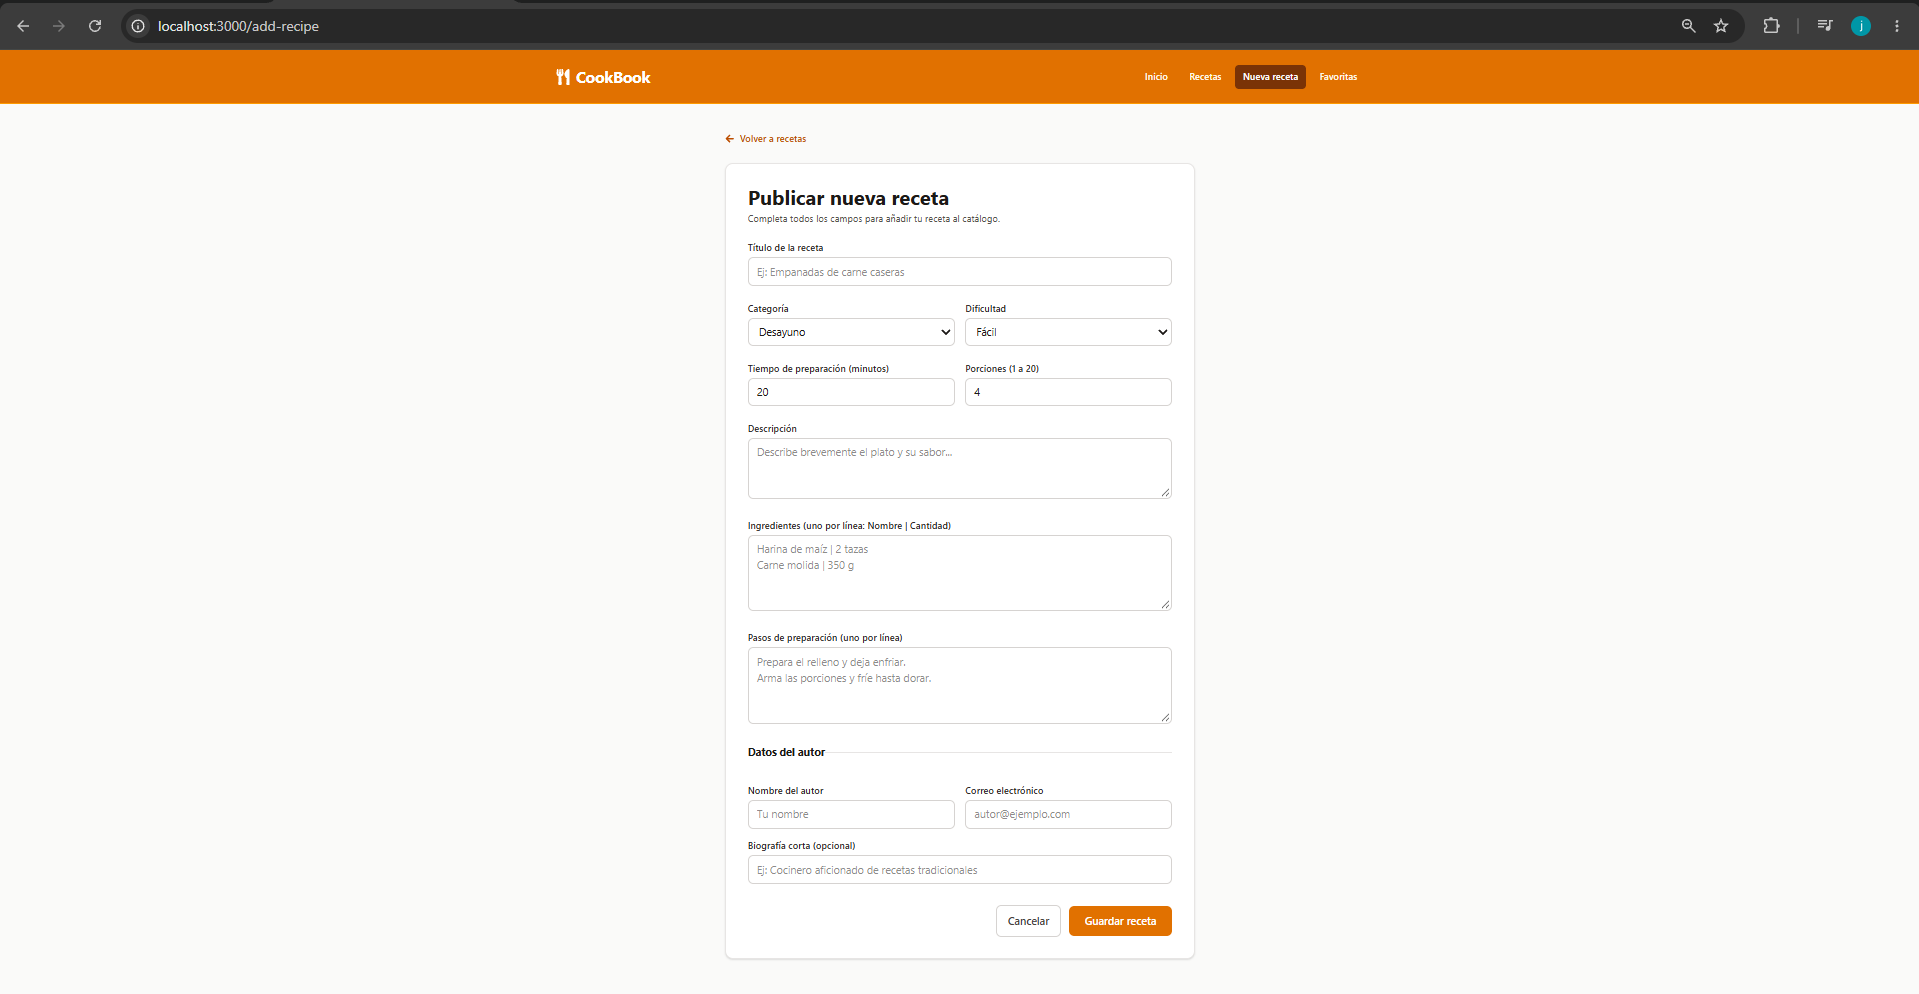
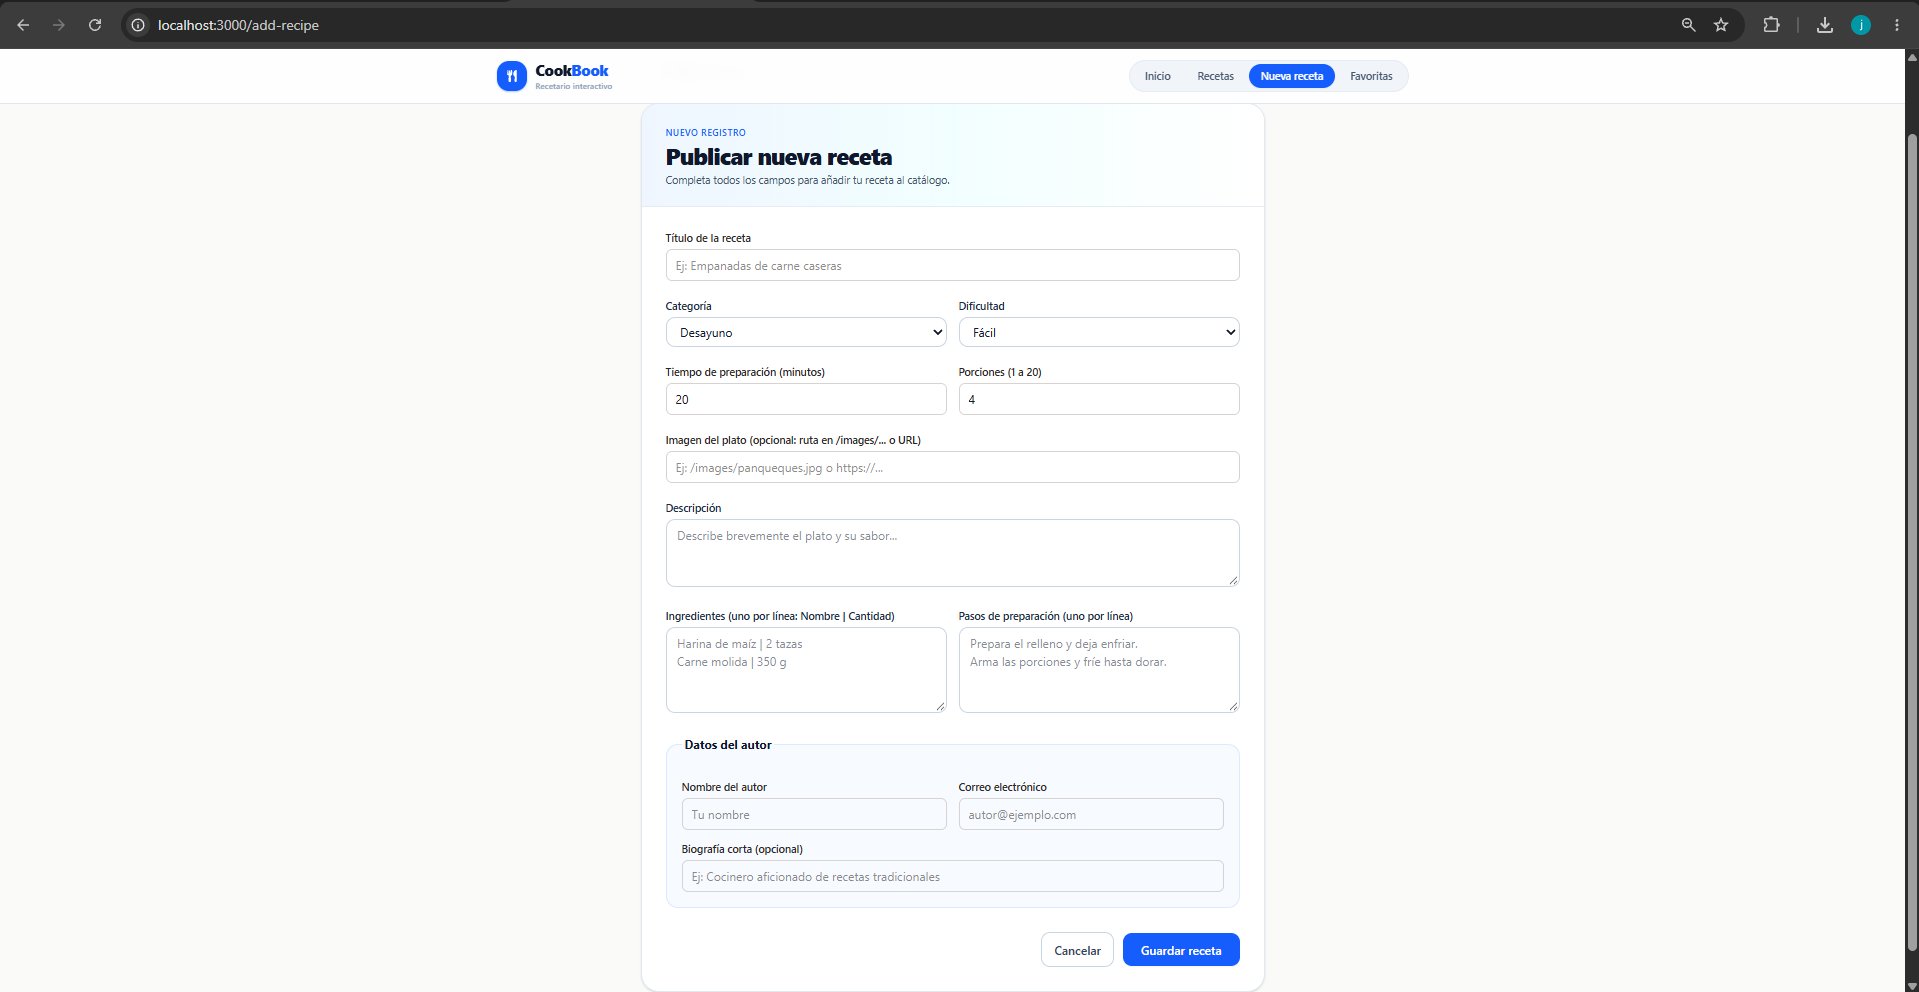
feat(cookbook): rediseño azul, 8 nuevas recetas e imágenes de platos

diff --git a/src/components/RecipeCard.jsx b/src/components/RecipeCard.jsx
@@ -1,7 +1,7 @@
 import { useState } from 'react';
 import { Link } from 'react-router';
 import { toast } from 'react-toastify';
-import { FaArrowRight, FaClock, FaHeart, FaRegHeart, FaUsers } from 'react-icons/fa';
+import { FaArrowRight, FaClock, FaHeart, FaRegHeart, FaUsers, FaUtensils } from 'react-icons/fa';
 import { toggleFavoriteRecipe } from '../services/recipesApi';
 
 const DESCRIPTION_LIMIT = 110;
@@ -9,6 +9,7 @@ const DESCRIPTION_LIMIT = 110;
 const RecipeCard = ({ recipe, onToggleFavorite }) => {
   const [expanded, setExpanded] = useState(false);
   const [togglingFav, setTogglingFav] = useState(false);
+  const [imgError, setImgError] = useState(false);
 
   const isLong = recipe.description.length > DESCRIPTION_LIMIT;
   const displayDescription =
@@ -40,12 +41,25 @@ const RecipeCard = ({ recipe, onToggleFavorite }) => {
   return (
     <article className="group bg-white rounded-2xl overflow-hidden shadow-xs hover:shadow-lg border border-slate-200 hover:border-blue-400 flex flex-col justify-between transition-all">
       <div>
-        <div className="bg-gradient-to-r from-blue-50 to-cyan-50 px-5 py-3 border-b border-slate-100 flex items-center justify-between gap-2">
-          <div className="flex flex-wrap items-center gap-1.5">
-            <span className="bg-blue-600 text-white text-[11px] font-semibold px-2.5 py-0.5 rounded-md">
+        <div className="relative h-48 w-full overflow-hidden bg-gradient-to-br from-blue-100 to-cyan-100">
+          {recipe.image && !imgError ? (
+            <img
+              src={recipe.image}
+              alt={`Plato de ${recipe.title}`}
+              onError={() => setImgError(true)}
+              className="h-full w-full object-cover group-hover:scale-105 transition-transform duration-300"
+            />
+          ) : (
+            <div className="flex h-full w-full items-center justify-center text-blue-600/40">
+              <FaUtensils className="text-4xl" aria-hidden="true" />
+            </div>
+          )}
+
+          <div className="absolute top-3 left-3 flex flex-wrap items-center gap-1.5">
+            <span className="bg-blue-600/95 backdrop-blur-xs text-white text-[11px] font-semibold px-2.5 py-1 rounded-md shadow-xs">
               {recipe.category}
             </span>
-            <span className="bg-sky-50 text-sky-700 border border-sky-200 text-[11px] font-medium px-2.5 py-0.5 rounded-md">
+            <span className="bg-white/95 backdrop-blur-xs text-slate-800 text-[11px] font-semibold px-2.5 py-1 rounded-md shadow-xs">
               {recipe.difficulty}
             </span>
           </div>
@@ -60,12 +74,12 @@ const RecipeCard = ({ recipe, onToggleFavorite }) => {
                 : `Marcar ${recipe.title} como favorita`
             }
             aria-pressed={Boolean(recipe.favorite)}
-            className="p-1.5 rounded-lg bg-white border border-slate-200 hover:border-rose-300 hover:bg-rose-50 text-rose-600 transition cursor-pointer shrink-0 disabled:opacity-50"
+            className="absolute top-3 right-3 p-2 rounded-full bg-white/95 backdrop-blur-xs shadow-xs hover:bg-rose-50 text-rose-600 transition cursor-pointer disabled:opacity-50"
           >
             {recipe.favorite ? (
               <FaHeart className="text-sm" aria-hidden="true" />
             ) : (
-              <FaRegHeart className="text-sm text-slate-400" aria-hidden="true" />
+              <FaRegHeart className="text-sm text-slate-500" aria-hidden="true" />
             )}
           </button>
         </div>

diff --git a/src/pages/EditRecipePage.jsx b/src/pages/EditRecipePage.jsx
@@ -43,6 +43,7 @@ const EditRecipePage = () => {
   const [difficulty, setDifficulty] = useState(recipe.difficulty || 'Fácil');
   const [prepTime, setPrepTime] = useState(String(recipe.prepTime ?? 20));
   const [servings, setServings] = useState(String(recipe.servings ?? 4));
+  const [image, setImage] = useState(recipe.image || '');
   const [description, setDescription] = useState(recipe.description || '');
   const [ingredientsText, setIngredientsText] = useState(
     formatIngredientsForTextarea(recipe.ingredients)
@@ -146,6 +147,7 @@ const EditRecipePage = () => {
       difficulty,
       prepTime: parsedPrepTime,
       servings: parsedServings,
+      image: image.trim(),
       description: description.trim(),
       ingredients: parsedIngredients,
       steps: parsedSteps,
@@ -326,6 +328,24 @@ const EditRecipePage = () => {
                   </p>
                 )}
               </div>
+            </div>
+
+            <div>
+              <label
+                htmlFor="edit-image"
+                className="block text-sm font-semibold text-slate-800 mb-1"
+              >
+                Imagen del plato (opcional: ruta en /images/... o URL)
+              </label>
+              <input
+                id="edit-image"
+                name="image"
+                type="text"
+                value={image}
+                onChange={(e) => setImage(e.target.value)}
+                placeholder="Ej: /images/panqueques.jpg o https://..."
+                className="w-full border border-slate-300 rounded-xl px-3.5 py-2 text-slate-900 focus:outline-none focus:border-blue-600 focus:ring-2 focus:ring-blue-600/20"
+              />
             </div>
 
             <div>

diff --git a/src/pages/AddRecipePage.jsx b/src/pages/AddRecipePage.jsx
@@ -41,6 +41,7 @@ const AddRecipePage = () => {
   const [difficulty, setDifficulty] = useState('Fácil');
   const [prepTime, setPrepTime] = useState('20');
   const [servings, setServings] = useState('4');
+  const [image, setImage] = useState('');
   const [description, setDescription] = useState('');
   const [ingredientsText, setIngredientsText] = useState('');
   const [stepsText, setStepsText] = useState('');
@@ -142,6 +143,7 @@ const AddRecipePage = () => {
       difficulty,
       prepTime: parsedPrepTime,
       servings: parsedServings,
+      image: image.trim(),
       description: description.trim(),
       ingredients: parsedIngredients,
       steps: parsedSteps,
@@ -287,6 +289,16 @@ const AddRecipePage = () => {
                 error={errors.servings}
               />
             </div>
+
+            <Input
+              id="image"
+              name="image"
+              type="text"
+              label="Imagen del plato (opcional: ruta en /images/... o URL)"
+              value={image}
+              onChange={(e) => setImage(e.target.value)}
+              placeholder="Ej: /images/panqueques.jpg o https://..."
+            />
 
             <div>
               <label

diff --git a/src/pages/RecipeDetailPage.jsx b/src/pages/RecipeDetailPage.jsx
@@ -19,6 +19,7 @@ const RecipeDetailPage = () => {
   const [deleting, setDeleting] = useState(false);
   const [isFavorite, setIsFavorite] = useState(Boolean(recipe.favorite));
   const [togglingFav, setTogglingFav] = useState(false);
+  const [imgError, setImgError] = useState(false);
 
   const handleToggleFavorite = async () => {
     const nextFavorite = !isFavorite;
@@ -72,6 +73,17 @@ const RecipeDetailPage = () => {
         </div>
 
         <article className="bg-white rounded-3xl shadow-sm border border-slate-200 overflow-hidden">
+          {recipe.image && !imgError && (
+            <div className="h-64 sm:h-80 w-full overflow-hidden bg-slate-100">
+              <img
+                src={recipe.image}
+                alt={`Presentación de ${recipe.title}`}
+                onError={() => setImgError(true)}
+                className="h-full w-full object-cover"
+              />
+            </div>
+          )}
+
           <div className="bg-gradient-to-r from-blue-50 via-cyan-50/70 to-white px-6 sm:px-8 py-6 border-b border-slate-200/80">
             <div className="flex flex-wrap items-center justify-between gap-3 mb-4">
               <div className="flex flex-wrap gap-2">
